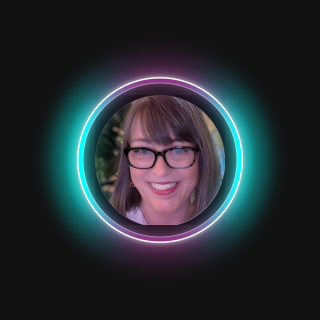
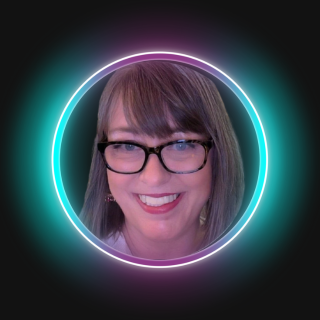
adding pic and refactoring css

diff --git a/index.html b/index.html
@@ -73,7 +73,7 @@
 				<div class="container text-center">
 					<div class="row">
 						<div class="col-12">
-							<h1 class="hero-heading display-1 fw-bold mb-0 <!--stroke-text-->">Kendall <br>Shearman</h1>
+							<h1 class="hero-heading display-1 fw-bold mb-0 heropadding">Kendall Shearman</h1>
 						</div>
 					</div><!-- end row -->
 				</div><!-- end container -->
@@ -86,7 +86,7 @@
 					<div class="col-12 col-lg-4 order-lg-2 text-center">
 						<!-- Hero Avatar -->
 						<div class="hero-avatar">
-							<img src="assets/images/hero-avatar.jpg" alt="">
+							<img src="assets/images/cirpro.png" alt="">
 						</div>
 						<!-- end Hero Avatar -->
 					</div>

diff --git a/assets/css/theme.css b/assets/css/theme.css
@@ -2038,3 +2038,7 @@ a:hover {
   color: #7B13FFFF; /* Color on hover */
   text-decoration: none;
 }
+
+.heropadding {
+  margin-top: 50px;
+}
